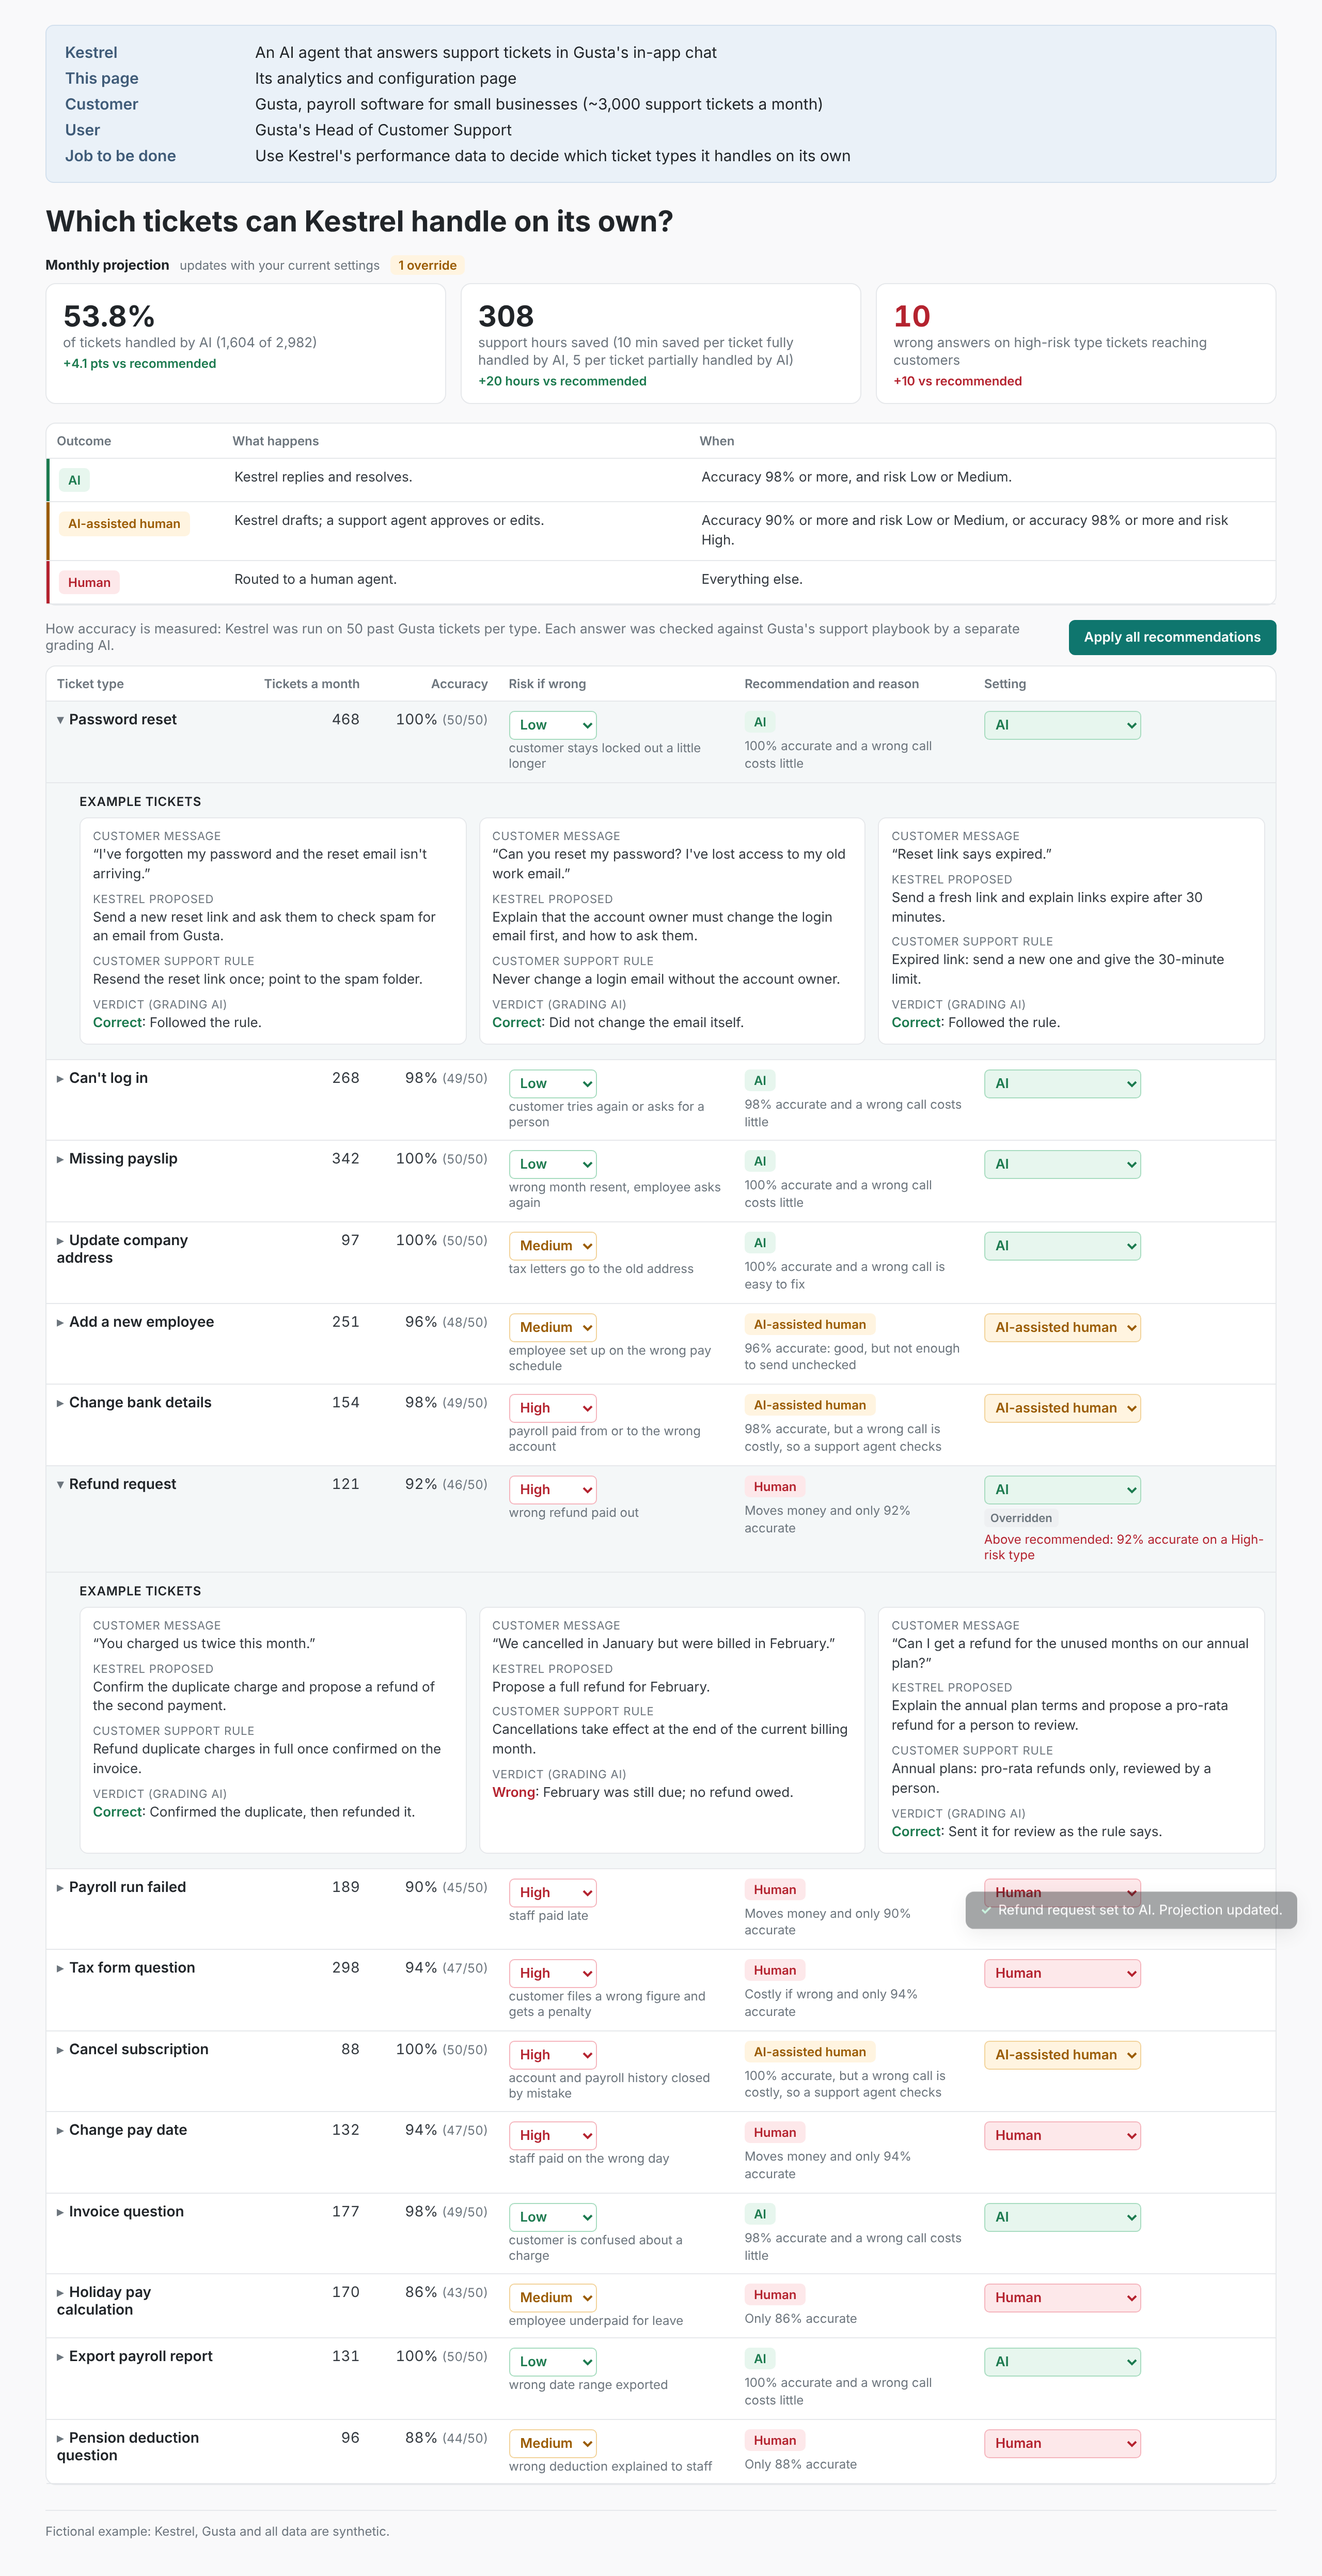
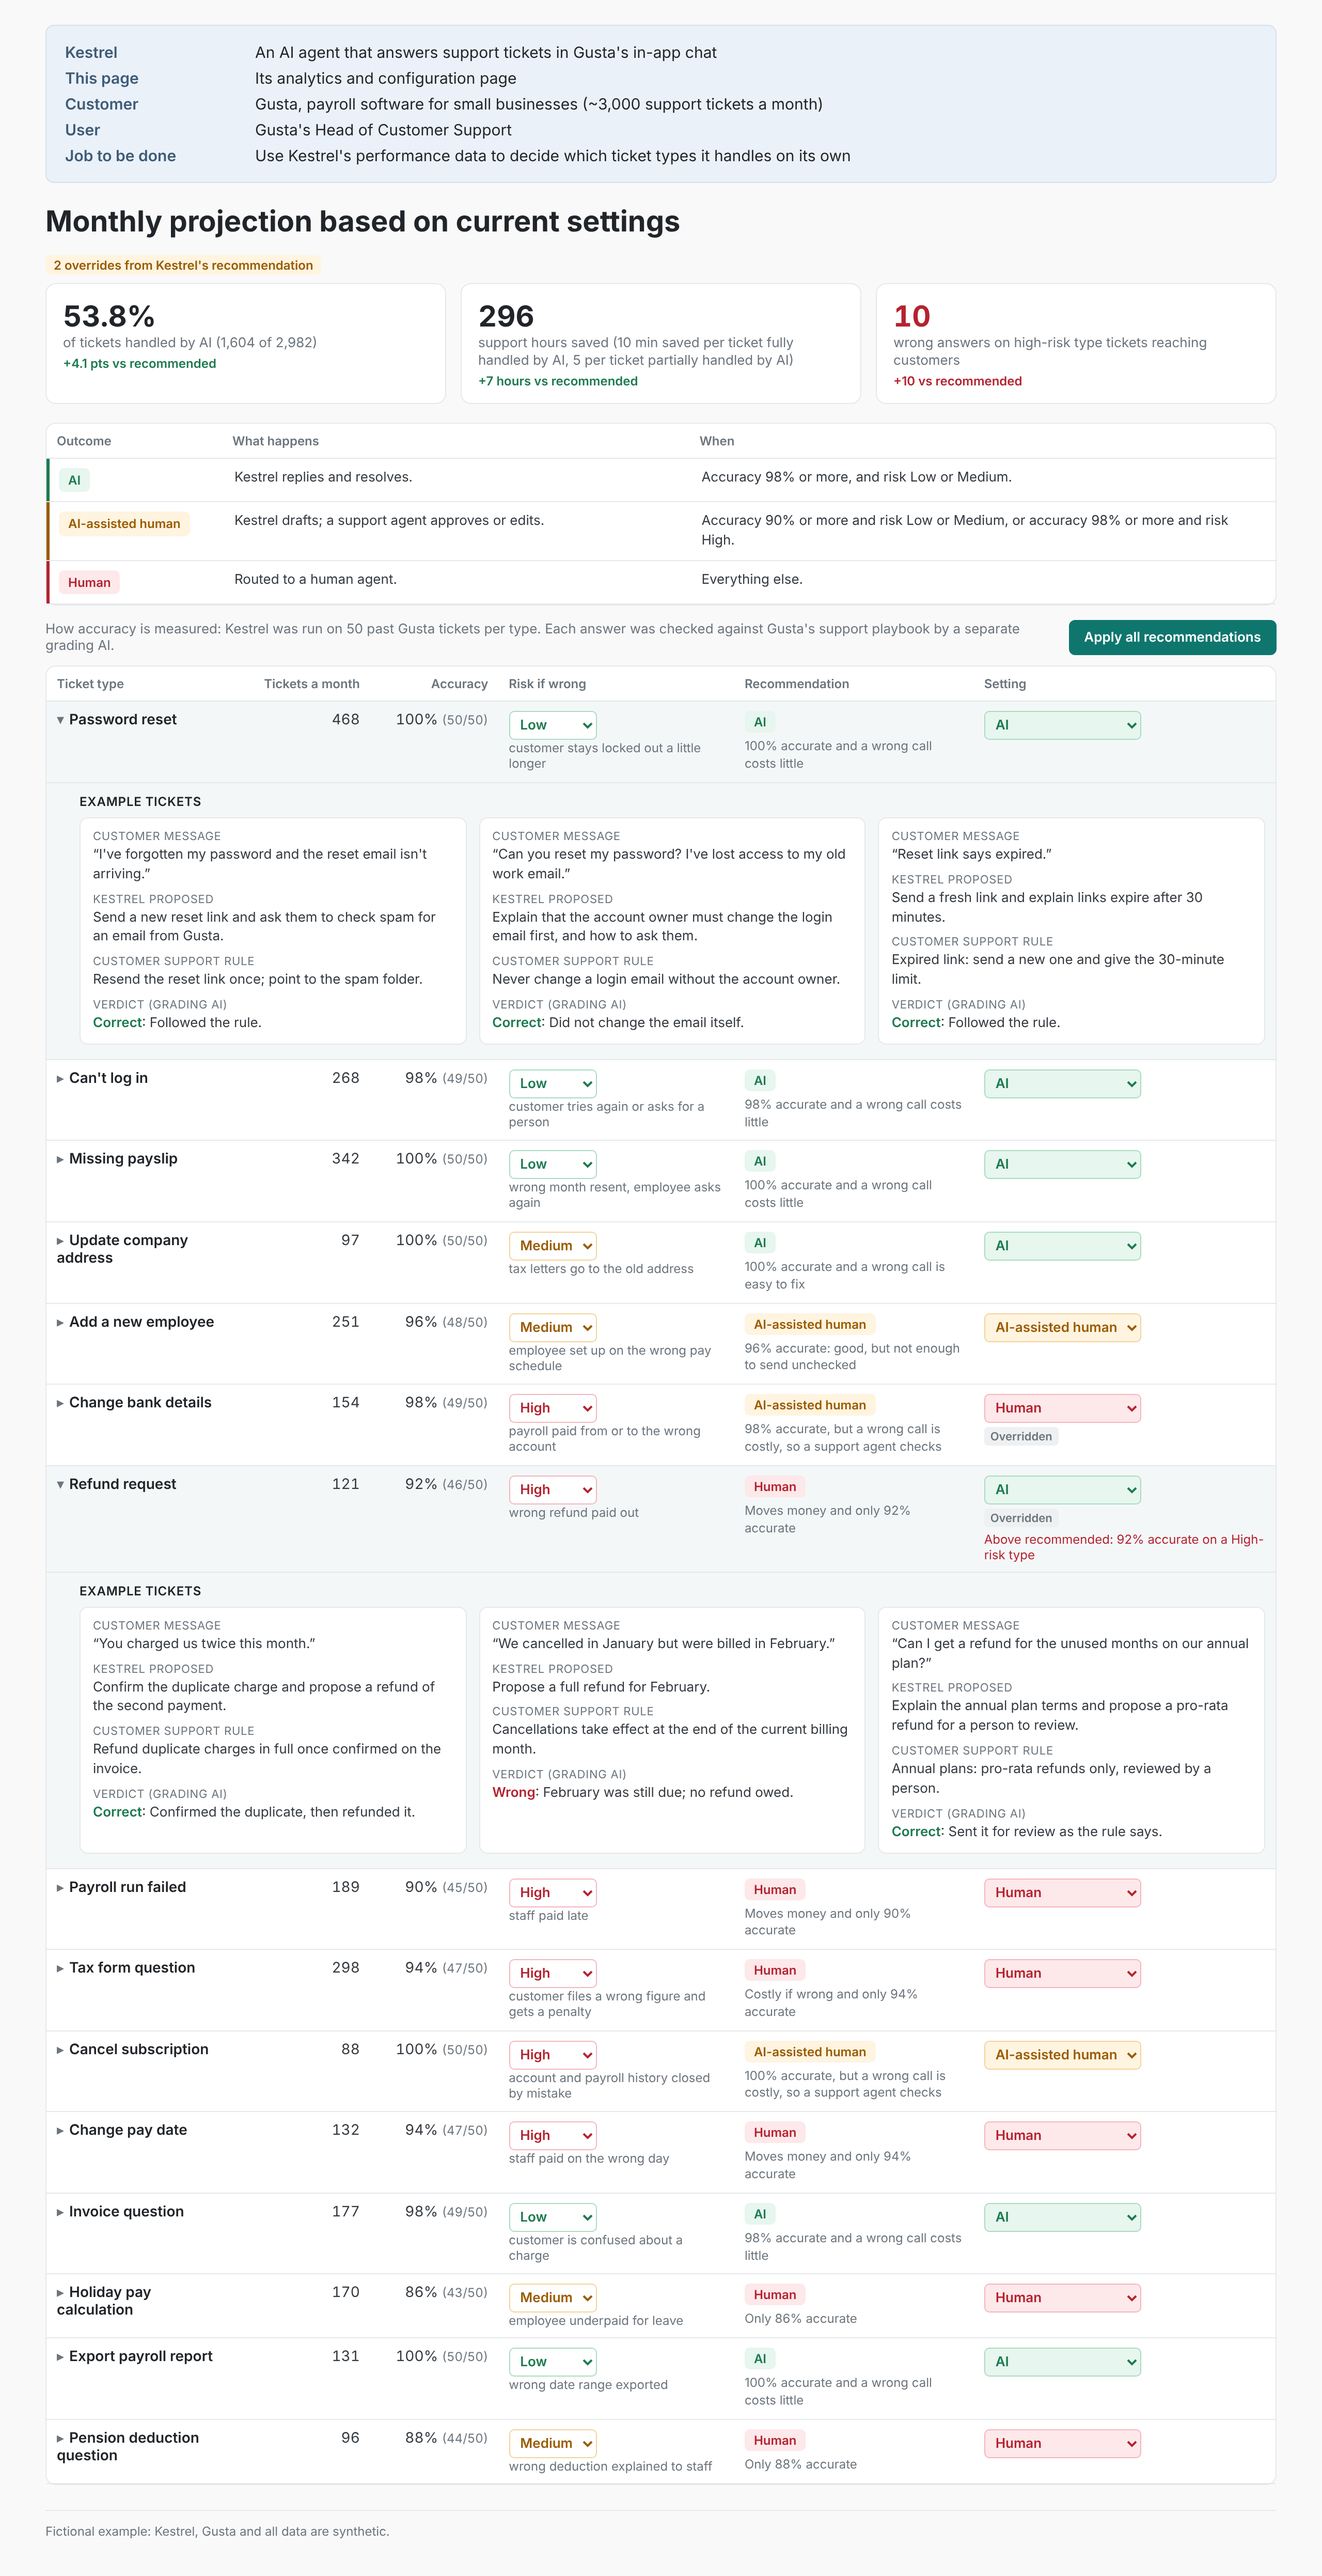
Headline is the monthly projection; one override by default; 'Adjusted by user' under risk; Recommendation column
Claude-Session: https://claude.ai/code/session_016JoguXTxkWcj5knaYbAtMZ

diff --git a/examples/kestrel/run/build/mvp.html b/examples/kestrel/run/build/mvp.html
@@ -109,7 +109,7 @@ function staticParts(){
     <dt>Customer</dt><dd>${G}, payroll software for small businesses (~${fmt(Math.round(D.types.reduce((s, t) => s + t.tickets, 0) / 100) * 100)} support tickets a month)</dd>
     <dt>User</dt><dd>${G}'s Head of Customer Support</dd>
     <dt>Job to be done</dt><dd>Use ${K}'s performance data to decide which ticket types it handles on its own</dd>`;
-  document.getElementById('headline').textContent = `Which tickets can ${K} handle on its own?`;
+  document.getElementById('headline').textContent = 'Monthly projection based on current settings';
   document.getElementById('rules').innerHTML = `<table>
     <tr><th>Outcome</th><th>What happens</th><th>When</th></tr>
     <tr class="r-resolve"><td><span class="chip c-resolve">AI</span></td><td>${K} replies and resolves.</td><td>Accuracy 98% or more, and risk Low or Medium.</td></tr>
@@ -123,7 +123,7 @@ function render(){
   const recSet = E.map(t => recommend(t, n)), r = summary(DE, recSet), overrides = settings.filter((m, i) => m !== recSet[i]).length;
   const delta = (now, base, unit, goodUp) => { const d = now - base; if (Math.abs(d) < 0.05) return '';
     const good = goodUp ? d > 0 : d < 0; return `<div class="delta ${good ? 'd-up' : 'd-bad'}">${d > 0 ? '+' : '−'}${unit(Math.abs(d))} vs recommended</div>`; };
-  document.getElementById('dashHead').innerHTML = `<b>Monthly projection</b><span class="dyn">updates with your current settings</span><span id="state" class="state ${overrides ? 'state-over">' + overrides + (overrides === 1 ? ' override' : ' overrides') : 'state-rec">Recommended settings'}</span>`;
+  document.getElementById('dashHead').innerHTML = overrides ? `<span id="state" class="state state-over">${overrides} ${overrides === 1 ? 'override' : 'overrides'} from Kestrel's recommendation</span>` : '';
   document.getElementById('summary').innerHTML = `
     <div class="card"><b id="sumShare">${(s.aiShare * 100).toFixed(1)}%</b><span>of tickets handled by AI (${fmt(s.ai)} of ${fmt(s.all)})</span>${delta(s.aiShare * 100, r.aiShare * 100, v => v.toFixed(1) + ' pts', true)}</div>
     <div class="card"><b id="sumHours">${fmt(s.hours)}</b><span>support hours saved (${D.minutes_ai} min saved per ticket fully handled by AI, ${D.minutes_assisted} per ticket partially handled by AI)</span>${delta(s.hours, r.hours, v => fmt(v) + ' hours', true)}</div>
@@ -136,8 +136,8 @@ function render(){
       <td><span class="chev">${isOpen ? '▾' : '▸'}</span><span class="name">${t.name}</span></td>
       <td class="n">${fmt(t.tickets)}</td>
       <td class="n">${p}% <span class="sub">(${t.correct}/${n})</span></td>
-      <td onclick="event.stopPropagation()"><select class="rk-${t.risk}" data-risk="${i}" onchange="setRisk(${i}, this.value)">${['Low', 'Medium', 'High'].map(v => `<option${v === t.risk ? ' selected' : ''}>${v}</option>`).join('')}</select>${adj ? '' : `<div class="sub">${t.risk_example.replace(/^\w+: /, '')}</div>`}</td>
-      <td><span class="chip c-${rec}">${LABEL[rec]}</span>${adj ? '<div class="adjusted">Adjusted by user</div>' : `<div class="reason">${t.reason}</div>`}</td>
+      <td onclick="event.stopPropagation()"><select class="rk-${t.risk}" data-risk="${i}" onchange="setRisk(${i}, this.value)">${['Low', 'Medium', 'High'].map(v => `<option${v === t.risk ? ' selected' : ''}>${v}</option>`).join('')}</select>${adj ? '<div class="adjusted">Adjusted by user</div>' : `<div class="sub">${t.risk_example.replace(/^\w+: /, '')}</div>`}</td>
+      <td><span class="chip c-${rec}">${LABEL[rec]}</span>${adj ? '' : `<div class="reason">${t.reason}</div>`}</td>
       <td onclick="event.stopPropagation()"><select class="s-${set}" data-i="${i}" onchange="setMode(${i}, this.value)">${['resolve', 'draft', 'human'].map(m => `<option value="${m}"${m === set ? ' selected' : ''}>${LABEL[m]}</option>`).join('')}</select>${over}${warn}</td>
 </tr>`;
     const det = isOpen ? `<tr class="detail"><td colspan="6"><div class="exhead">Example tickets</div><div class="exgrid">${t.examples.map(e => `<div class="exbox">
@@ -146,7 +146,7 @@ function render(){
       <p><span class="lbl">Customer support rule</span>${e.rule}</p>
       <p><span class="lbl">Verdict (grading AI)</span><span class="${e.correct ? 'ok">Correct' : 'no">Wrong'}</span>: ${e.verdict_reason}</p></div>`).join('')}</div></td></tr>` : '';
     return main + det; }).join('');
-  document.getElementById('types').innerHTML = `<tr><th>Ticket type</th><th class="n">Tickets a month</th><th class="n">Accuracy</th><th>Risk if wrong</th><th>Recommendation and reason</th><th>Setting</th></tr>${rows}`;
+  document.getElementById('types').innerHTML = `<tr><th>Ticket type</th><th class="n">Tickets a month</th><th class="n">Accuracy</th><th>Risk if wrong</th><th>Recommendation</th><th>Setting</th></tr>${rows}`;
 }
 function toggle(i){ open.has(i) ? open.delete(i) : open.add(i); render(); }
 let toastTimer;
@@ -158,7 +158,7 @@ function setRisk(i, v){ const n = D.test_tickets_per_type, before = recommend(ef
   const after = recommend(eff()[i], n); if (settings[i] === before) settings[i] = after; render();
   toast(`${D.types[i].name} risk set to ${v}. ${after !== before ? 'Now recommended: ' + LABEL[after] + '.' : 'Recommendation unchanged.'}`); }
 function applyAll(silent){ settings = eff().map(t => recommend(t, D.test_tickets_per_type)); render(); if (!silent) toast('All recommendations applied. Projection updated.'); }
-fetch('../data/ticket_types.json').then(r => r.json()).then(d => { D = d; risks = D.types.map(t => t.risk); staticParts(); applyAll(true); document.body.dataset.ready = '1'; })
+fetch('../data/ticket_types.json').then(r => r.json()).then(d => { D = d; risks = D.types.map(t => t.risk); staticParts(); applyAll(true); settings[D.types.findIndex(t => t.name === 'Change bank details')] = 'human'; render(); document.body.dataset.ready = '1'; })
   .catch(() => { document.querySelector('main').insertAdjacentHTML('afterbegin', '<p class="measure"><b>Couldn\'t load the data.</b> Open this page through a web server, not by double-clicking the file.</p>'); });
 </script>
 </body></html>

diff --git a/examples/kestrel/run/build/check_mvp.js b/examples/kestrel/run/build/check_mvp.js
@@ -11,9 +11,12 @@ const srv = http.createServer((q, r) => { const f = path.join(root, decodeURICom
   await p.goto(`http://localhost:${srv.address().port}/build/mvp.html`); await p.waitForSelector('body[data-ready="1"]');
   t('no top bar', !(await p.$('#topbar')));
   const hd = await txt('#header'); t('header: Kestrel first, then this page', hd.indexOf('An AI agent that answers support tickets') < hd.indexOf('Its analytics and configuration page') && hd.includes('Its analytics and configuration page'));
-  t('headline', (await txt('#headline')) === 'Which tickets can Kestrel handle on its own?');
-  t('monthly projection: 49.7%, 288 hours, 0 high-risk wrong answers', (await txt('.dash-head b')) === 'Monthly projection' && (await txt('#sumShare')) === '49.7%' && (await txt('#sumHours')) === '288' && (await txt('#sumHigh')) === '0');
-  t('dashboard: recommended settings', (await txt('#state')) === 'Recommended settings');
+  t('headline', (await txt('#headline')) === 'Monthly projection based on current settings');
+  t('default: 1 override (Change bank details set to Human)', (await txt('#state')) === "1 override from Kestrel's recommendation" && (await p.inputValue('select[data-i="5"]')) === 'human' && (await txt('tr.row[data-i="5"]')).includes('Overridden'));
+  t('default projection: 49.7%, 275 hours, 0', (await txt('#sumShare')) === '49.7%' && (await txt('#sumHours')) === '275' && (await txt('#sumHigh')) === '0');
+  await p.click('#applyAll');
+  t('no badge with recommended settings', !(await p.$('#state')));
+  t('recommended settings: 49.7%, 288 hours, 0 high-risk wrong answers', (await txt('#sumShare')) === '49.7%' && (await txt('#sumHours')) === '288' && (await txt('#sumHigh')) === '0');
   t('rules before the table', await p.evaluate(() => !!(document.querySelector('#rules').compareDocumentPosition(document.querySelector('#types')) & Node.DOCUMENT_POSITION_FOLLOWING)));
   t('15 rows, Password reset expanded by default', (await p.$$('tr.row')).length === 15 && (await p.$$('tr.detail')).length === 1 && (await txt('tr.row.open')).includes('Password reset'));
   const det = await txt('tr.detail');
@@ -26,7 +29,7 @@ const srv = http.createServer((q, r) => { const f = path.join(root, decodeURICom
   const row = await txt('tr.row[data-i="6"]');
   t('override shows Overridden and the warning', row.includes('Overridden') && row.includes('Above recommended: 92% accurate on a High-risk type'));
   t('summary updates: 53.8%, 10 high-risk wrong answers', (await txt('#sumShare')) === '53.8%' && (await txt('#sumHigh')) === '10');
-  t('dashboard updates: 1 override, 10 on High-risk types, deltas shown', (await txt('#state')) === '1 override' && (await txt('#sumHigh')) === '10' && (await txt('#summary')).includes('+10 vs recommended'));
+  t('dashboard updates: 1 override, 10 on High-risk types, deltas shown', (await txt('#state')) === "1 override from Kestrel's recommendation" && (await txt('#sumHigh')) === '10' && (await txt('#summary')).includes('+10 vs recommended'));
   await p.selectOption('select[data-i="0"]', 'human');
   const row0 = await txt('tr.row[data-i="0"]');
   t('lowering autonomy: Overridden, no warning', row0.includes('Overridden') && !row0.includes('Above recommended'));
@@ -35,7 +38,7 @@ const srv = http.createServer((q, r) => { const f = path.join(root, decodeURICom
   await p.selectOption('select[data-risk="0"]', 'High');
   let r0 = await txt('tr.row[data-i="0"]');
   t('confirmation after a risk change names the new recommendation', (await txt('#toast')).includes('Password reset risk set to High. Now recommended: AI-assisted human.'));
-  t('risk adjusted: "Adjusted by user", recommendation and setting follow', r0.includes('Adjusted by user') && r0.includes('AI-assisted human') && (await p.inputValue('select[data-i="0"]')) === 'draft' && !r0.includes('Overridden'));
+  t('risk adjusted: "Adjusted by user" under the risk, recommendation and setting follow', (await txt('tr.row[data-i="0"] td:nth-child(4)')).includes('Adjusted by user') && r0.includes('AI-assisted human') && (await p.inputValue('select[data-i="0"]')) === 'draft' && !r0.includes('Overridden'));
   // an overridden setting does not follow a risk change
   await p.selectOption('select[data-i="1"]', 'human'); await p.selectOption('select[data-risk="1"]', 'High');
   t('overridden setting stays when risk changes', (await p.inputValue('select[data-i="1"]')) === 'human');

diff --git a/examples/kestrel/run/build/capture_screens.js b/examples/kestrel/run/build/capture_screens.js
@@ -8,7 +8,7 @@ const srv = http.createServer((q, r) => { const f = path.join(root, decodeURICom
   const p = await b.newPage({ viewport: { width: 1280, height: 900 }, deviceScaleFactor: scale });
   await p.goto(`http://localhost:${srv.address().port}/build/mvp.html`); await p.waitForSelector('body[data-ready="1"]');
   await p.screenshot({ path: path.join(root, 'design', '1-overview.png'), fullPage: true });
-  await p.click('tr.row:has-text("Refund request") .name'); await p.selectOption('select[data-i="6"]', 'resolve');
+  await p.click('tr.row:has-text("Refund request") .name'); await p.selectOption('select[data-i="6"]', 'resolve'); await p.waitForTimeout(2800);
   await p.screenshot({ path: path.join(root, 'design', '2-override.png'), fullPage: true });
   console.log('saved 2 screens'); await b.close(); srv.close();
 })();

diff --git a/README.md b/README.md
@@ -17,7 +17,7 @@ Kestrel's analytics and configuration page (not the agent itself), for Gusta's H
 
 | Part | What it shows |
 |---|---|
-| Monthly projection | **49.7%** of tickets handled by AI (1,483 of 2,982 a month) · **288** support hours saved a month (10 minutes per ticket fully handled by AI, 5 per ticket partially handled by AI) · **0** wrong answers on high-risk type tickets reaching customers a month |
+| Monthly projection | With the default settings (one override: Change bank details kept with a human): **49.7%** of tickets handled by AI (1,483 of 2,982 a month) · **275** support hours saved a month (10 minutes per ticket fully handled by AI, 5 per ticket partially handled by AI) · **0** wrong answers on high-risk type tickets reaching customers a month |
 | Decision rules | **AI** (98%+ accurate, risk Low or Medium) · **AI-assisted human** (90%+ and risk Low or Medium, or 98%+ and risk High) · **Human** (everything else) |
 | The table | 15 ticket types in in-app chat: tickets a month, accuracy, risk if wrong, Kestrel's recommendation with its reason, and a setting Gusta controls |
 | Overrides | Risk and setting are both adjustable. Changing a risk re-runs the recommendation ("Adjusted by user"); changing a setting shows "Overridden" and warns when it gives Kestrel more autonomy than recommended. The three numbers update live, with the change against the recommendation |
